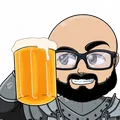
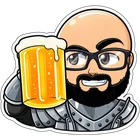
feat(rank): substituir mascote por adesivo e ajustar posição com borda inferior oculta (v4.20.58)

diff --git a/frontend/css/pages/rank.css b/frontend/css/pages/rank.css
@@ -27,6 +27,8 @@ body.rank-page-active .rank-table thead th {
    do painel; a separação visual fica por conta de suas bordas internas. */
 
 body.rank-page-active .rank-tabs-bar {
+  position: relative;
+  z-index: 2;
   background: rgba(10,14,8,0.88);
   backdrop-filter: blur(14px);
   -webkit-backdrop-filter: blur(14px);
@@ -197,15 +199,15 @@ body.rank-page-active .rank-table tbody tr:hover {
 
 .rank-mascot {
   position: absolute;
-  top: -8px;
+  top: 8px;
   right: 0;
-  width: 100px;
-  height: 100px;
+  width: 130px;
+  height: 130px;
   object-fit: contain;
   pointer-events: none;
   user-select: none;
   filter: drop-shadow(0 4px 12px rgba(0, 0, 0, 0.5));
-  z-index: 10;
+  /* sem z-index: rank-tabs-bar (z-index:2) cobre a borda inferior */
 }
 
 .rank-search-wrap {
